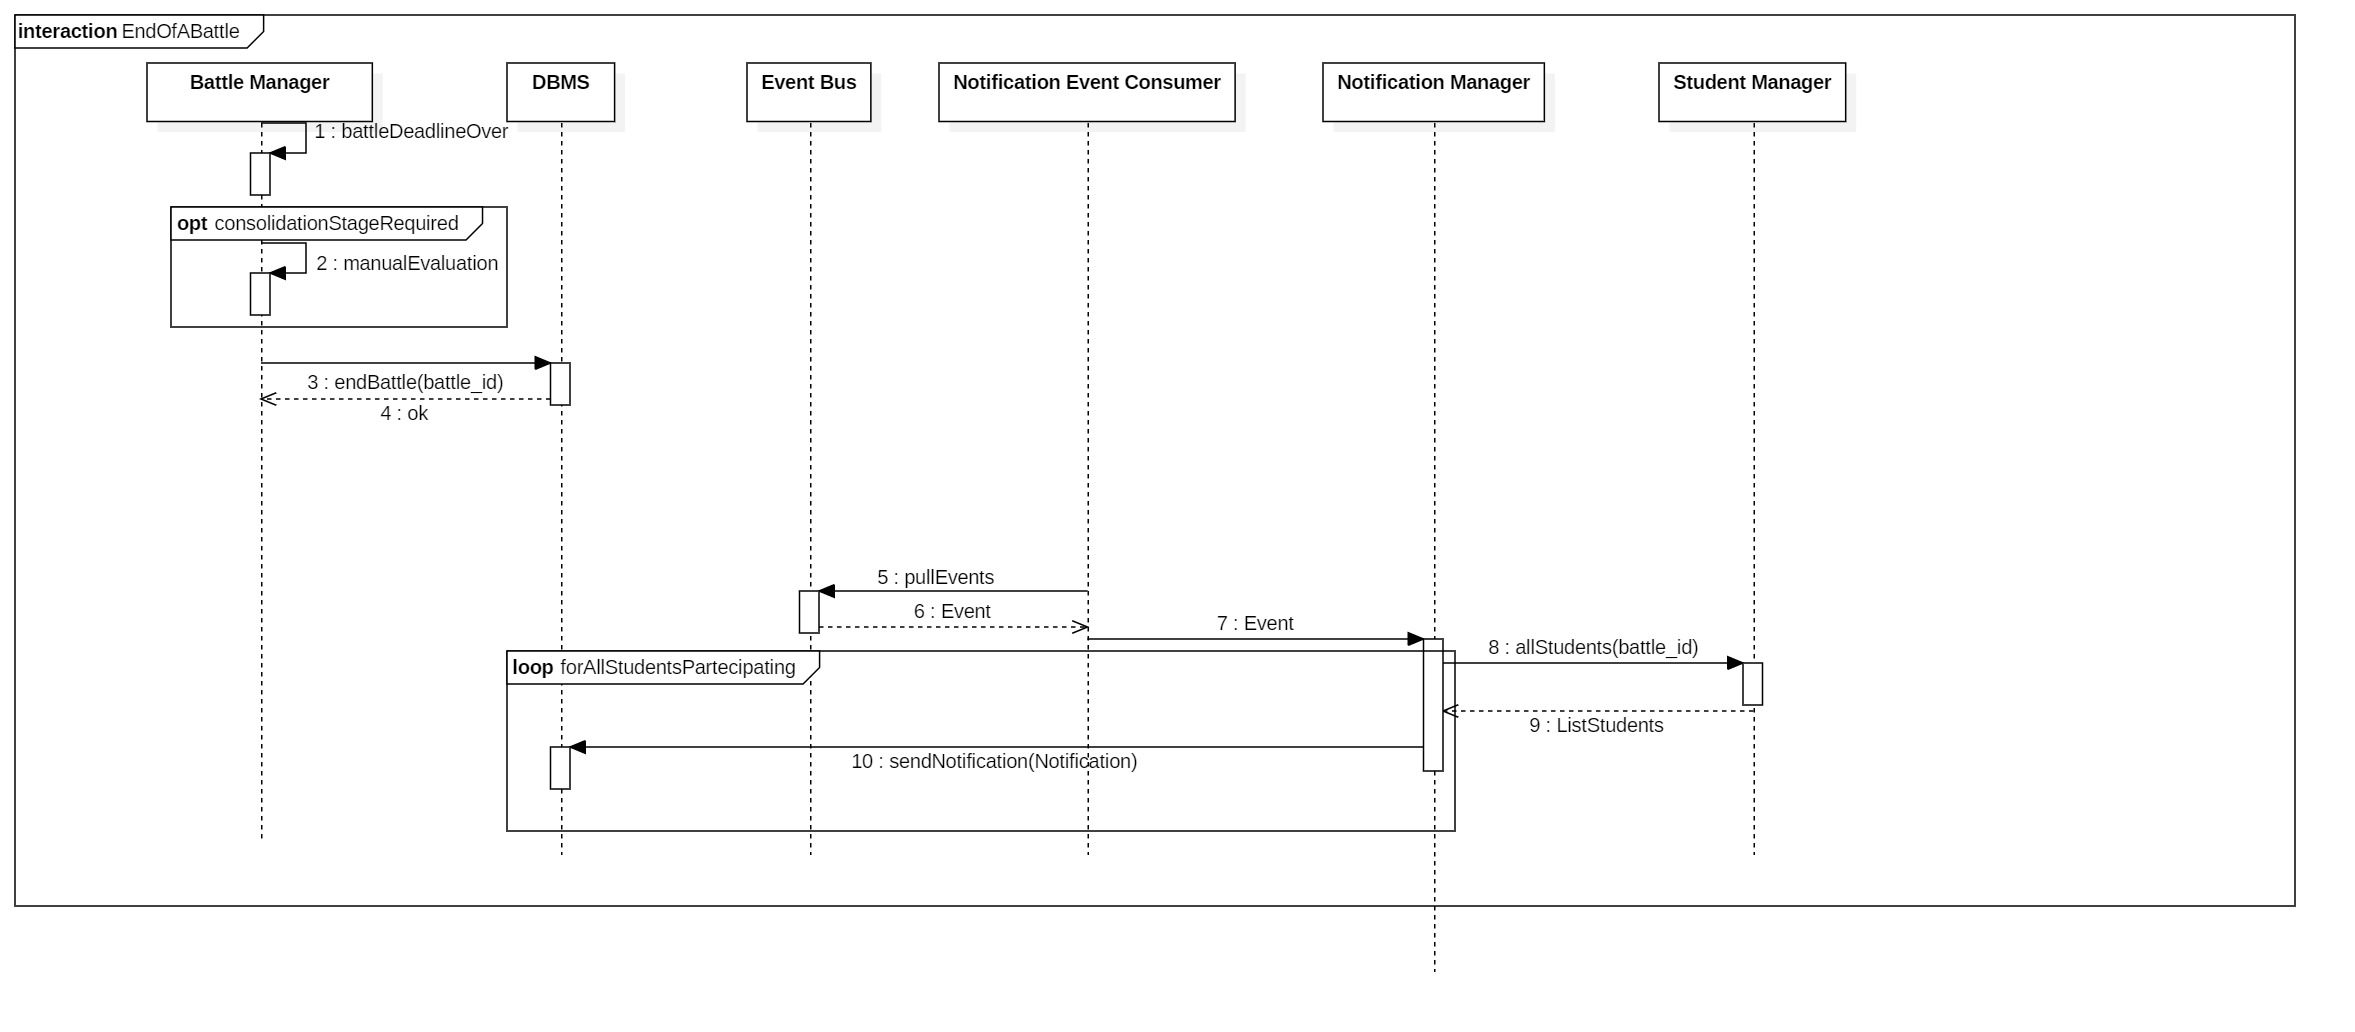
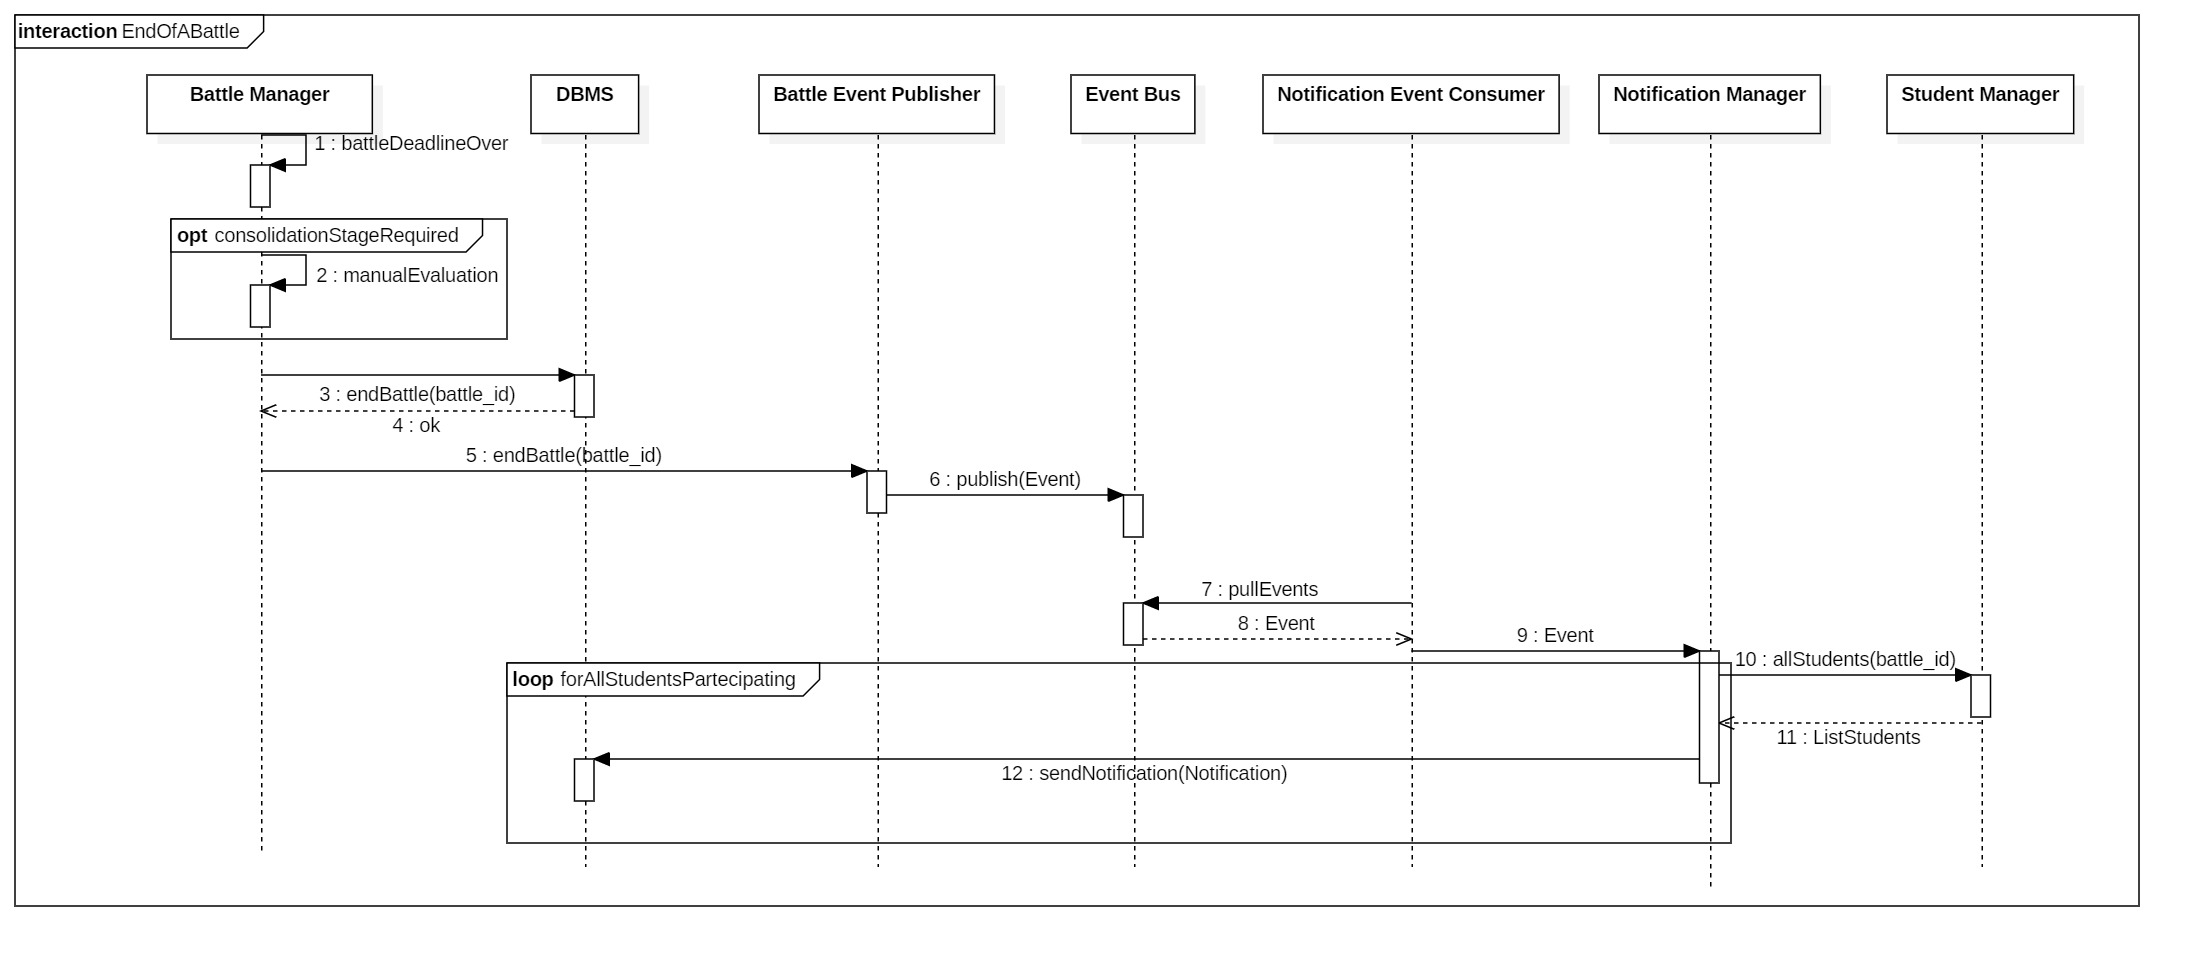
Added architectural styles and pattern section

diff --git a/DD/2.ArchitecturalDesign/src/2.6SelectedArchitecturalStylesAndPatterns.tex b/DD/2.ArchitecturalDesign/src/2.6SelectedArchitecturalStylesAndPatterns.tex
@@ -1,15 +1,72 @@
 \subsection{Selected Architectural Styles and Patterns}
 
-The choice of this architectural style is due to many factors, including:
+This section delves into our architectural decisions, explaining the reasoning behind each choice. We aim for a system that not only meets current demands but also allows for flexibility and evolution. A comprehensive view empowers both developers and stakeholders with a clear understanding of how these choices contribute to the overall success of the software engineering endeavor.
+
+\subsubsection*{Microservices Architecture}
+
+The adoption of a microservices architecture is driven by several factors, contributing to the versatility and adaptability of our application:
 
 \begin{itemize}
-	\item \textit{Scalability}: Microservices can be scaled independently, allowing for scaling out sub-services without scaling out the entire system. This leads to the versatility of the application.
-	
-	\item \textit{Fault Tolerance}: Unlike the monolithic approach, which has many inter-dependencies creating a single point of failure, in this approach, the application can remain mostly unaffected by the failure of a single module.
-	
-	\item \textit{Deployment and Productivity}: Microservices enable continuous integration and delivery, making it easy to test new ideas, suiting Agile and DevOps working methodologies. Furthermore, it makes it easier to split the work between team members: each team member is responsible for a particular service, resulting in a smart, productive, cross-functional team where the speed of development is largely improved.
-	
-	\item \textit{Continuous Delivery}: Microservices enable continuous delivery, meaning your software can be modified and delivered to your client base frequently and easily due to its automated nature.
-	
-	\item \textit{Maintainability}: Benefits of Microservices Architecture include less energy spent on understanding separate pieces of software or worrying about how a bug fix will affect other parts of the product.
+    \item \textit{Scalability}: Microservices allow independent scaling, enabling the scalability of sub-services without scaling out the entire system, fostering a versatile and responsive application.
+  
+    \item \textit{Fault Tolerance}: Unlike monolithic approaches with inter-dependencies, microservices minimize the impact of a single module failure, ensuring the application remains largely unaffected.
+  
+    \item \textit{Deployment and Productivity}: Microservices facilitate continuous integration and delivery, promoting Agile and DevOps methodologies. The modular structure enhances team productivity, with each member responsible for a specific service.
+  
+    \item \textit{Continuous Delivery}: Microservices enable frequent and automated software modifications and deliveries, aligning with agile development practices.
+  
+    \item \textit{Maintainability}: Microservices reduce the effort spent on understanding separate pieces of software, enhancing overall system maintainability.
 \end{itemize}
+
+\subsubsection*{RESTful APIs}
+
+The adoption of the REST architectural style for designing and implementing our APIs offers a scalable, efficient, and interoperable communication model. This choice is motivated by several compelling advantages:
+
+\begin{itemize}
+    \item \textit{Simplicity and Intuitiveness}: RESTful APIs follow a straightforward design using standard HTTP methods, reducing the learning curve for developers and third-party consumers.
+  
+    \item \textit{Scalability}: The stateless nature of REST allows for easy scalability, promoting a loosely coupled and horizontally scalable architecture.
+  
+    \item \textit{Flexibility and Modularity}: RESTful APIs encourage a modular and resource-centric design, promoting clean separation of concerns.
+  
+    \item \textit{Interoperability}: Leveraging standard HTTP protocols makes REST platform-agnostic, facilitating interoperability across different technologies and devices.
+  
+    \item \textit{Statelessness}: RESTful APIs' statelessness simplifies server logic, improves reliability, and allows for easy recovery from failures, contributing to a more robust and fault-tolerant system.
+\end{itemize}
+
+\subsubsection*{Model-View-Controller (MVC)}
+
+The adoption of the Model-View-Controller architecture lays the foundation for a well-organized, maintainable, and scalable application. This choice is motivated by several factors:
+
+\begin{itemize}
+    \item \textit{Modular Organization}: MVC divides our application into three interconnected components: Model, View, and Controller. This enhances code readability, facilitates easier debugging, and allows for independent development of each component.
+  
+    \item \textit{Separation of Concerns}: MVC enforces a clear separation of concerns, simplifying development, making it easier to maintain, extend, and modify individual components without affecting the entire system.
+  
+    \item \textit{Reusability and Extensibility}: The modular structure of MVC promotes code reusability, allowing components to be reused in different parts of the application or in future projects.
+  
+    \item \textit{Testability}: MVC enhances the testability of our application, allowing for independent testing of each component, ensuring that each part of the application functions correctly.
+  
+    \item \textit{Improved Collaboration}: MVC's division of responsibilities facilitates collaboration among development teams, fostering efficiency and allowing specialists to contribute to the project in their areas of expertise.
+\end{itemize}
+
+\subsubsection*{Event-Driven Architecture (EDA)}
+
+Beside the fact that the adoption of Event-Driven Architecture (EDA) harnesses the power of dynamic interactions, real-time responsiveness, and scalable communication, its use is specifically driven by the desire to generate asynchronous notifications. Through the Notification Consumer, Tournament Publisher, and Battle Publisher, we effectively mitigate the overhead of requesting additional computation for each action involving Notification, Tournament, and Battle Managers. 
+Other advantages of the architecture are:
+
+\begin{itemize}
+    \item \textit{Decoupled Components}: EDA promotes decoupling of components by relying on events as the means of communication. This results in a more flexible architecture, allowing for independent development, testing, and deployment.
+  
+    \item \textit{Scalability}: EDA facilitates scalability by enabling the distribution of components and services. This asynchronous and distributed nature supports the scalability of our application, allowing it to handle increased loads and adapt to varying workloads.
+  
+    \item \textit{Real-Time Responsiveness}: Events in an Event-Driven Architecture are often handled in real-time, ensuring that our application can respond promptly to changes, updates, or user interactions.
+  
+    \item \textit{Loose Coupling and Flexibility}: The decoupled nature of event-driven systems results in a more flexible architecture. Components are not directly dependent on each other, allowing for independent development, testing, and deployment.
+\end{itemize}
+
+
+\subsubsection{Database Management}
+
+In our high-level view, managing the database involves a shared database partitioned to divide data among various microservices. Each partition is replicated to guarantee reliability and availability. Protocols such as multi-Paxos or Raft, which manage replicated state machines, will be considered implementation choices; 2PC could be used across partitions, assuming the reachability of the majority of nodes, to ensure the atomicity and consistency of transactions. Concurrency management will be an implementation choice.
+
